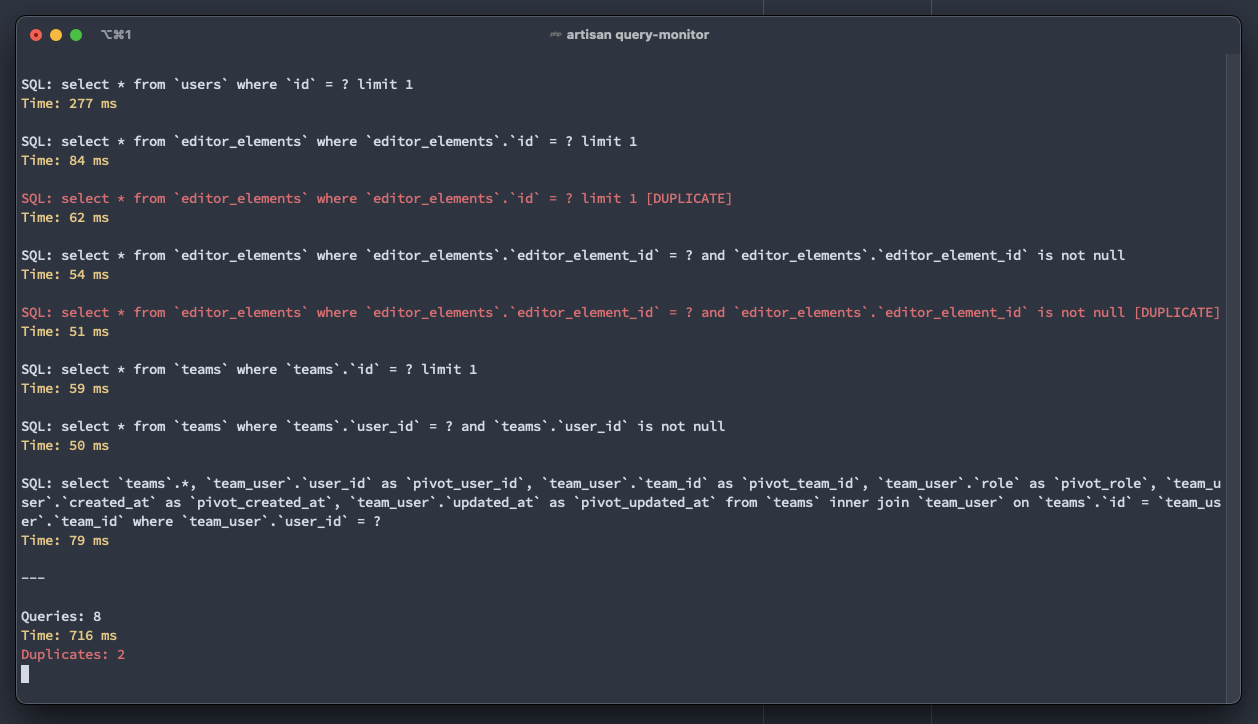
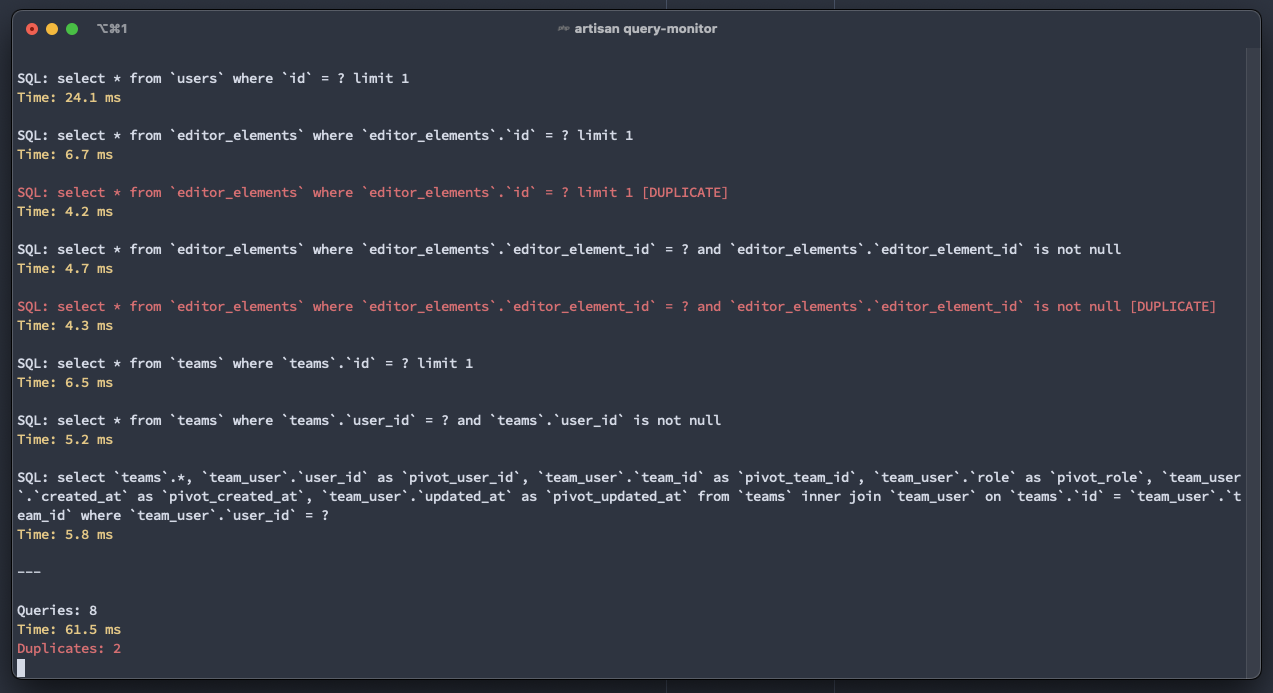
Iterate. Fix time calculation. Update screenshot.

Changed region(s): [[0.0, 0.0, 0.9921, 1.0]]

diff --git a/src/QueryMonitorCommand.php b/src/QueryMonitorCommand.php
@@ -18,6 +18,8 @@ class QueryMonitorCommand extends Command
 
         $service->run($this);
 
+        $this->clearScreen();
+
         $this->line('<fg=green>Query Monitor</> [Listening on: ' . $service->getUri().']');
 
         return self::SUCCESS;
@@ -25,6 +27,8 @@ class QueryMonitorCommand extends Command
 
     public function printQueries(array $queries): void
     {
+        $this->clearScreen();
+
         $duplicates = 0;
 
         $time = 0;
@@ -34,7 +38,7 @@ class QueryMonitorCommand extends Command
         foreach ($queries as $query) {
             $querySql = $query['sql'];
 
-            $queryTime = $query['time']*100;
+            $queryTime = $query['time'];
 
             if (in_array($querySql, $sql, true)) {
                 $line = "<fg=red>SQL: $querySql [DUPLICATE]</>";
@@ -60,5 +64,10 @@ class QueryMonitorCommand extends Command
         $this->warn("Time: $time ms");
 
         $this->line("<fg=".($duplicates ? 'red' : 'default').">Duplicates: $duplicates</>");
+    }
+
+    protected function clearScreen(): void
+    {
+        $this->line("\033\143\e[3J");
     }
 }

diff --git a/src/QueryMonitor.php b/src/QueryMonitor.php
@@ -41,7 +41,7 @@ class QueryMonitor
     {
         DB::listen(fn (QueryExecuted $query) => $this->queries[] = [
             'sql' => $query->sql,
-            'time' => $query->time,
+            'time' => $query->time*10,
         ]);
 
         app()->terminating(function () {
@@ -60,10 +60,7 @@ class QueryMonitor
         (new SocketServer($this->uri))
             ->on('connection', function (ConnectionInterface $connection) use($command) {
                 $connection->on('data', function ($data) use ($connection, $command) {
-                    $command->line("\033\143\e[3J");
-
                     $command->printQueries(json_decode($data, true, 512, JSON_THROW_ON_ERROR));
-
                     $connection->close();
                 });
             });
